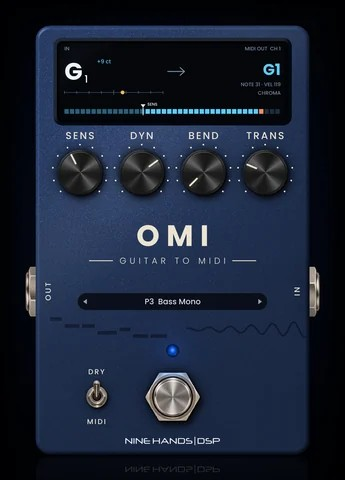
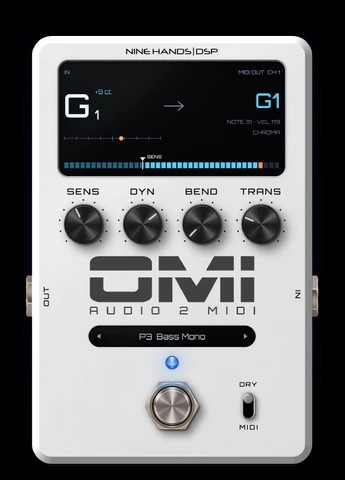
1.3.2 : vignette d'Omi (design 1.0.9) ; les vignettes changees dans la liste en ligne sont retelechargees (empreinte imgHash) ; sync_catalog fusionne au lieu d'ecraser
Claude-Session: https://claude.ai/code/session_01M5BvnLG98eEBP7LgfBE96X

diff --git a/Source/ManagerView.h b/Source/ManagerView.h
@@ -959,7 +959,7 @@ namespace pm
             SafePointer<ManagerView> self (this);
             checker = std::thread ([this, self, repos]
             {
-                String json; StringArray names = repos;
+                String json; StringArray names = repos; bool newImages = false;
                 {
                     const auto t = Net::getText (kRaw + "plugins.json");
                     Catalog c;
@@ -970,9 +970,18 @@ namespace pm
                         {
                             names.add (p.repo);
                             const auto img = Catalog::imageCache().getChildFile (p.repo + ".jpg");
+                            const auto hashFile = Catalog::imageCache().getChildFile (p.repo + ".hash");
+                            const auto url = kRaw + "img/" + URL::addEscapeChars (p.repo, false) + ".jpg";
                             int n = 0;
-                            if (! stopFlag && ! img.existsAsFile() && resource (p.repo + ".jpg", n) == nullptr)
-                                Net::getFile (kRaw + "img/" + URL::addEscapeChars (p.repo, false) + ".jpg", img);
+                            if (stopFlag) continue;
+                            if (p.imgHash.isNotEmpty())
+                            {
+                                // vignette changee dans la liste en ligne : on la retelecharge
+                                if (hashFile.loadFileAsString().trim() != p.imgHash && Net::getFile (url, img))
+                                { hashFile.replaceWithText (p.imgHash); newImages = true; }
+                            }
+                            else if (! img.existsAsFile() && resource (p.repo + ".jpg", n) == nullptr)
+                                newImages |= Net::getFile (url, img);
                         }
                     }
                 }
@@ -990,7 +999,7 @@ namespace pm
                     while (pool.getNumJobs() > 0) Thread::sleep (30);
                 }
                 const auto app = stopFlag ? String() : Net::latestTag (kAppRepo);
-                MessageManager::callAsync ([sp = self, json, tags, app]
+                MessageManager::callAsync ([sp = self, json, tags, app, newImages]
                 {
                     if (sp == nullptr) return;
                     if (json.isNotEmpty() && json != Catalog::cacheFile().loadFileAsString())
@@ -998,6 +1007,8 @@ namespace pm
                         Catalog::cacheFile().replaceWithText (json);
                         sp->cat.loadLocal();
                     }
+                    else if (newImages)
+                        for (auto& p : sp->cat.plugins) p.image = Catalog::loadImage (p.repo);
                     int ok = 0;
                     for (auto& p : sp->cat.plugins)
                         if (auto it = tags.find (p.repo); it != tags.end() && it->second.isNotEmpty()) { p.latest = it->second; ++ok; }

diff --git a/tools/sync_catalog.py b/tools/sync_catalog.py
@@ -2,7 +2,7 @@
 """Copie la liste des plugins du depot Download (plugins.json + visuels) dans catalog/.
 Usage : python3 tools/sync_catalog.py <chemin du depot Download>
 Les visuels .webp sont convertis en .jpg (format lu par l'application)."""
-import json, shutil, sys
+import hashlib, json, shutil, sys
 from pathlib import Path
 from PIL import Image
 
@@ -10,13 +10,33 @@ src = Path(sys.argv[1] if len(sys.argv) > 1 else "../Download")
 dst = Path(__file__).resolve().parent.parent / "catalog"
 (dst / "img").mkdir(parents=True, exist_ok=True)
 data = json.loads((src / "plugins.json").read_text(encoding="utf-8"))
-shutil.copy(src / "plugins.json", dst / "plugins.json")
+
+# fusion avec la liste deja publiee : on ne perd aucun plugin ajoute ici directement,
+# et chaque plugin garde la version la plus recente des deux listes
+def vkey(v):
+    return [int(x) if x.isdigit() else 0 for x in str(v).split(".")]
+cur_file = dst / "plugins.json"
+if cur_file.exists():
+    cur = json.loads(cur_file.read_text(encoding="utf-8"))
+    by = {p["depot"]: p for p in data["plugins"]}
+    for c in cur.get("plugins", []):
+        p = by.get(c["depot"])
+        if p is None:
+            data["plugins"].append(c); continue
+        if vkey(c.get("version", "0")) > vkey(p.get("version", "0")):
+            for k in ("version", "sortie", "sortie_version"):
+                if k in c: p[k] = c[k]
+    if str(cur.get("date", "")) > str(data.get("date", "")) and len(str(cur.get("date", ""))) == len(str(data.get("date", ""))):
+        data["date"] = cur["date"]
 n = 0
 for p in data["plugins"]:
     w = src / "img" / f"{p['depot']}.webp"
-    if not w.exists():
+    j = dst / "img" / f"{p['depot']}.jpg"
+    if w.exists():
+        Image.open(w).convert("RGB").save(j, "JPEG", quality=90, optimize=True)
+    elif not j.exists():
         print("visuel manquant :", w); continue
-    im = Image.open(w).convert("RGB")
-    im.save(dst / "img" / f"{p['depot']}.jpg", "JPEG", quality=90, optimize=True)
+    p["imgHash"] = hashlib.md5(j.read_bytes()).hexdigest()[:12]   # l'application retelecharge la vignette si l'empreinte change
     n += 1
+(dst / "plugins.json").write_text(json.dumps(data, ensure_ascii=False, indent=2) + "\n", encoding="utf-8")
 print(f"{len(data['plugins'])} plugins, {n} visuels -> {dst}")

diff --git a/Source/Catalog.h b/Source/Catalog.h
@@ -89,7 +89,7 @@ namespace pm
 
     struct Plugin
     {
-        String name, catalogVersion, family, desc, repo, urlWin, urlMac, notice, type, released;
+        String name, catalogVersion, family, desc, repo, urlWin, urlMac, notice, type, released, imgHash;
         String latest;              // version de la derniere Release GitHub (vide tant qu'elle n'est pas connue)
         String installedVersion;    // vide : pas installe
         File bundle;                // .vst3 trouve dans le dossier
@@ -136,6 +136,7 @@ namespace pm
                 e.desc = p["description"].toString(); e.repo = p["depot"].toString(); e.urlWin = p["windows"].toString();
                 e.urlMac = p["macos"].toString(); e.notice = p["notice"].toString(); e.type = p.getProperty ("type", "guitare").toString();
                 e.released = p.getProperty ("sortie", "").toString();
+                e.imgHash = p.getProperty ("imgHash", "").toString();     // empreinte de la vignette (tools/sync_catalog.py)
                 if (e.name.isNotEmpty() && e.repo.isNotEmpty()) plugins.push_back (e);
             }
             return true;
